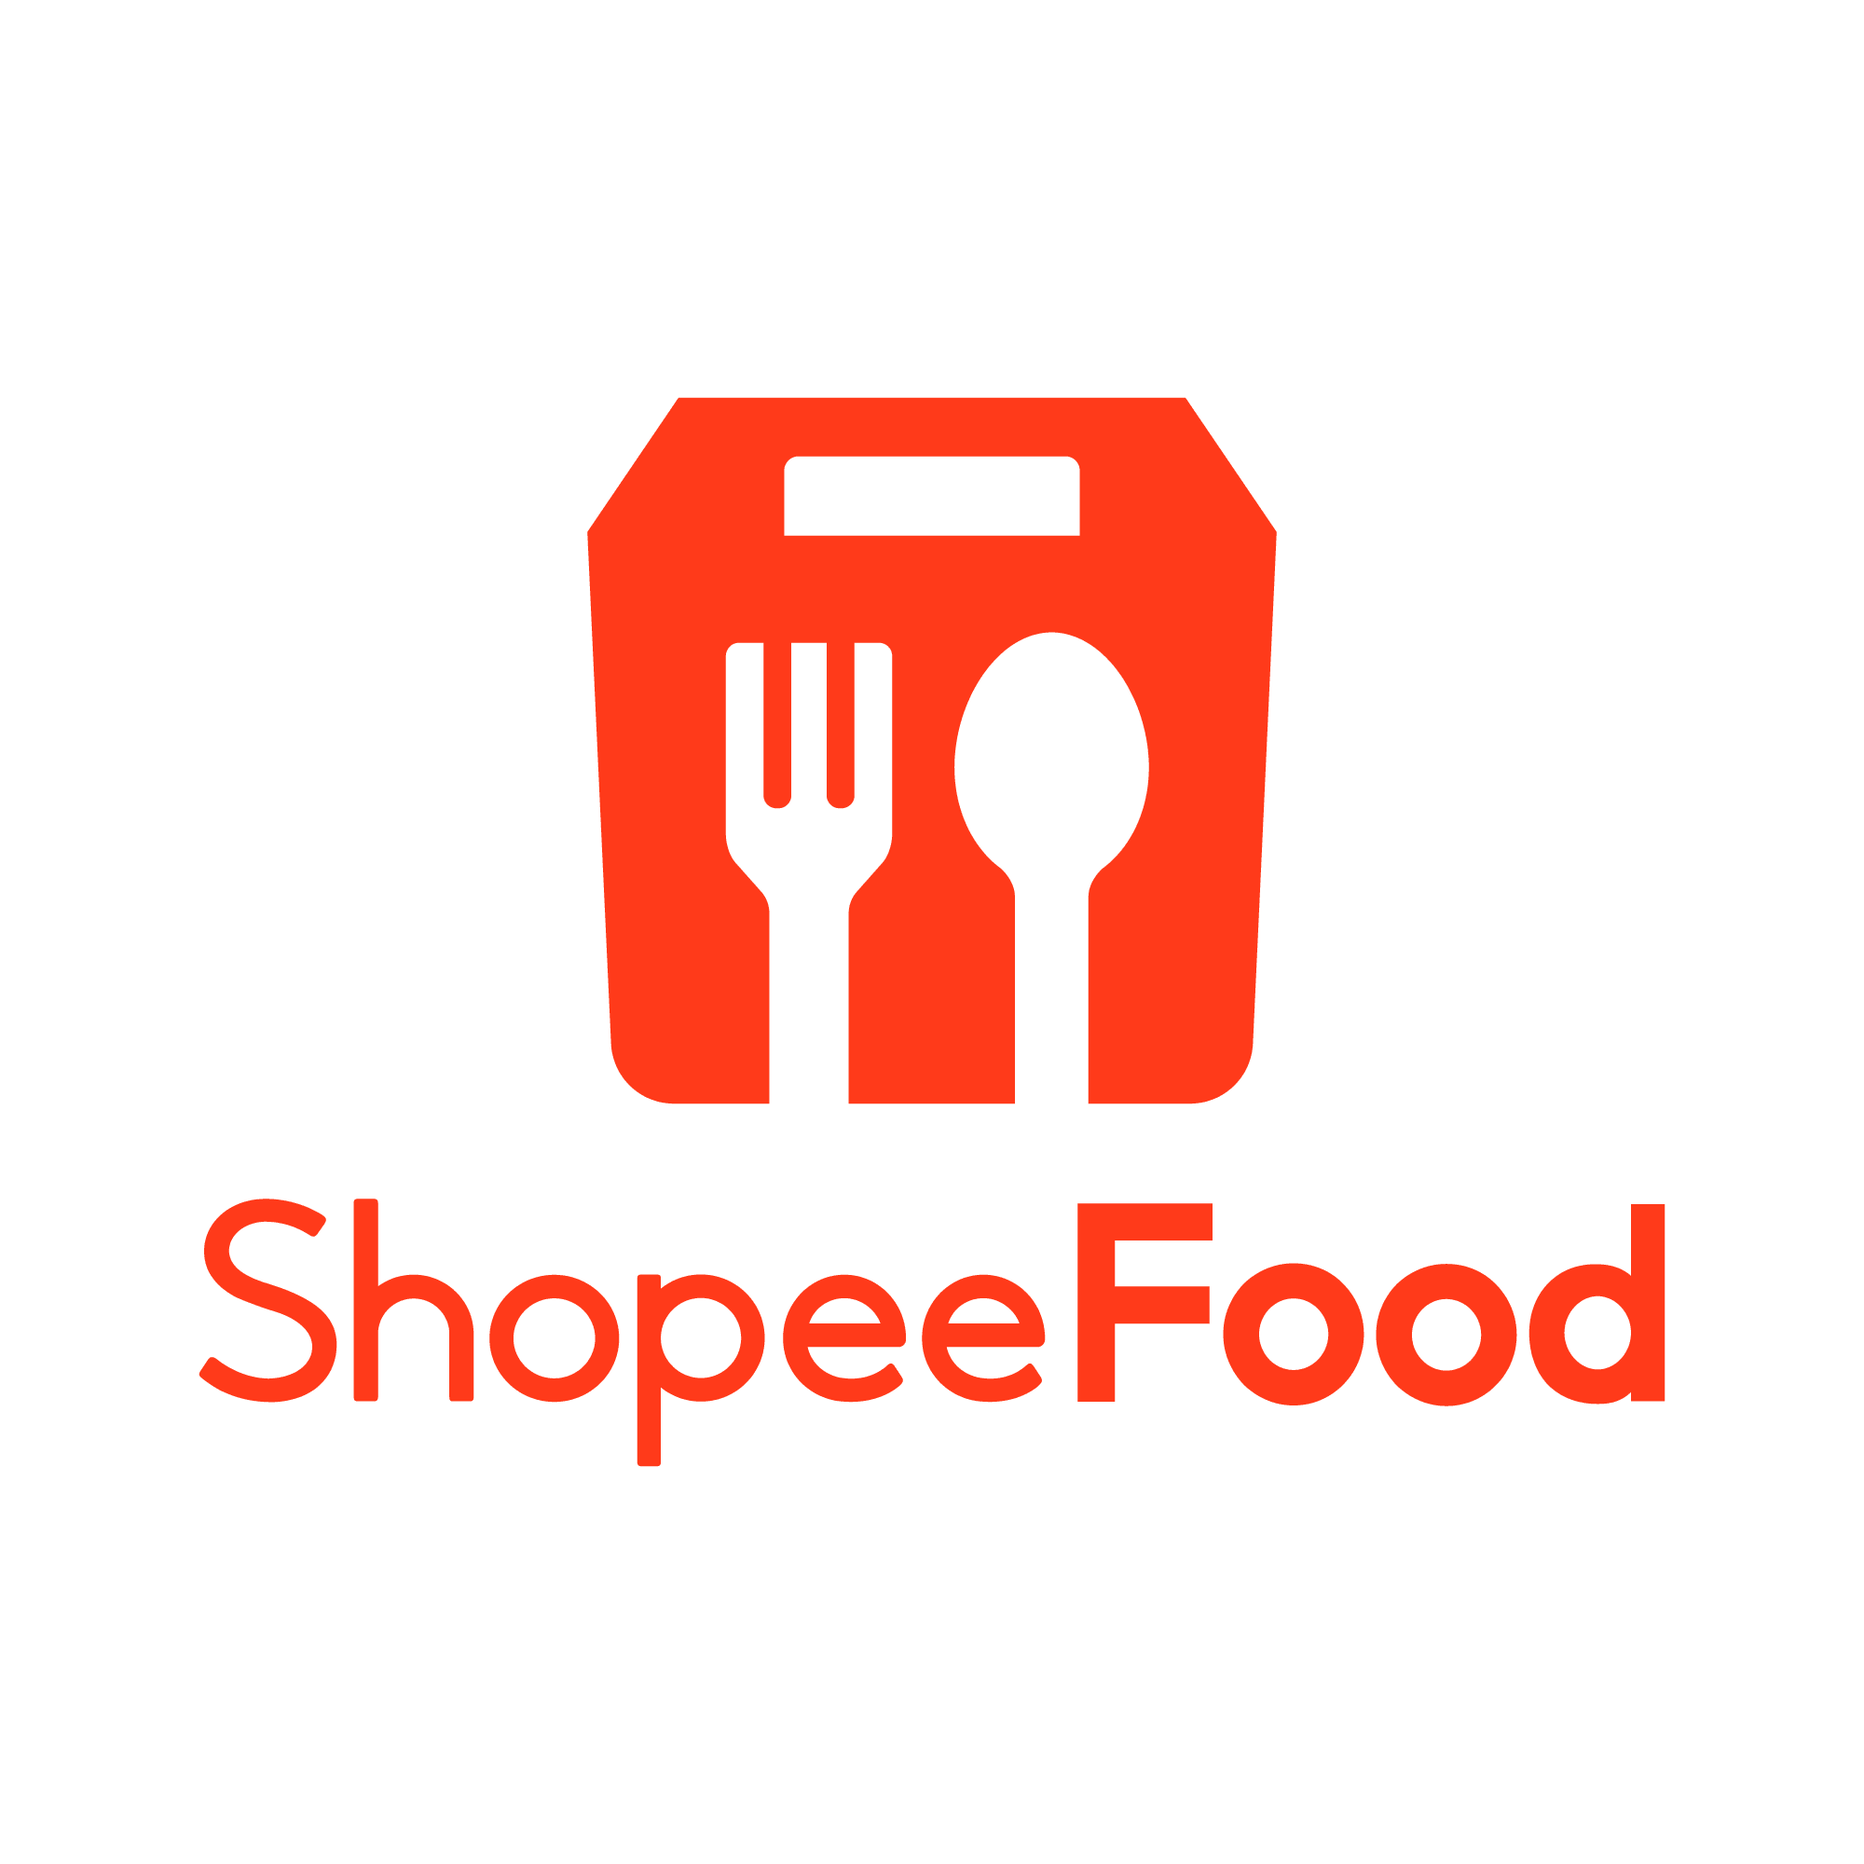
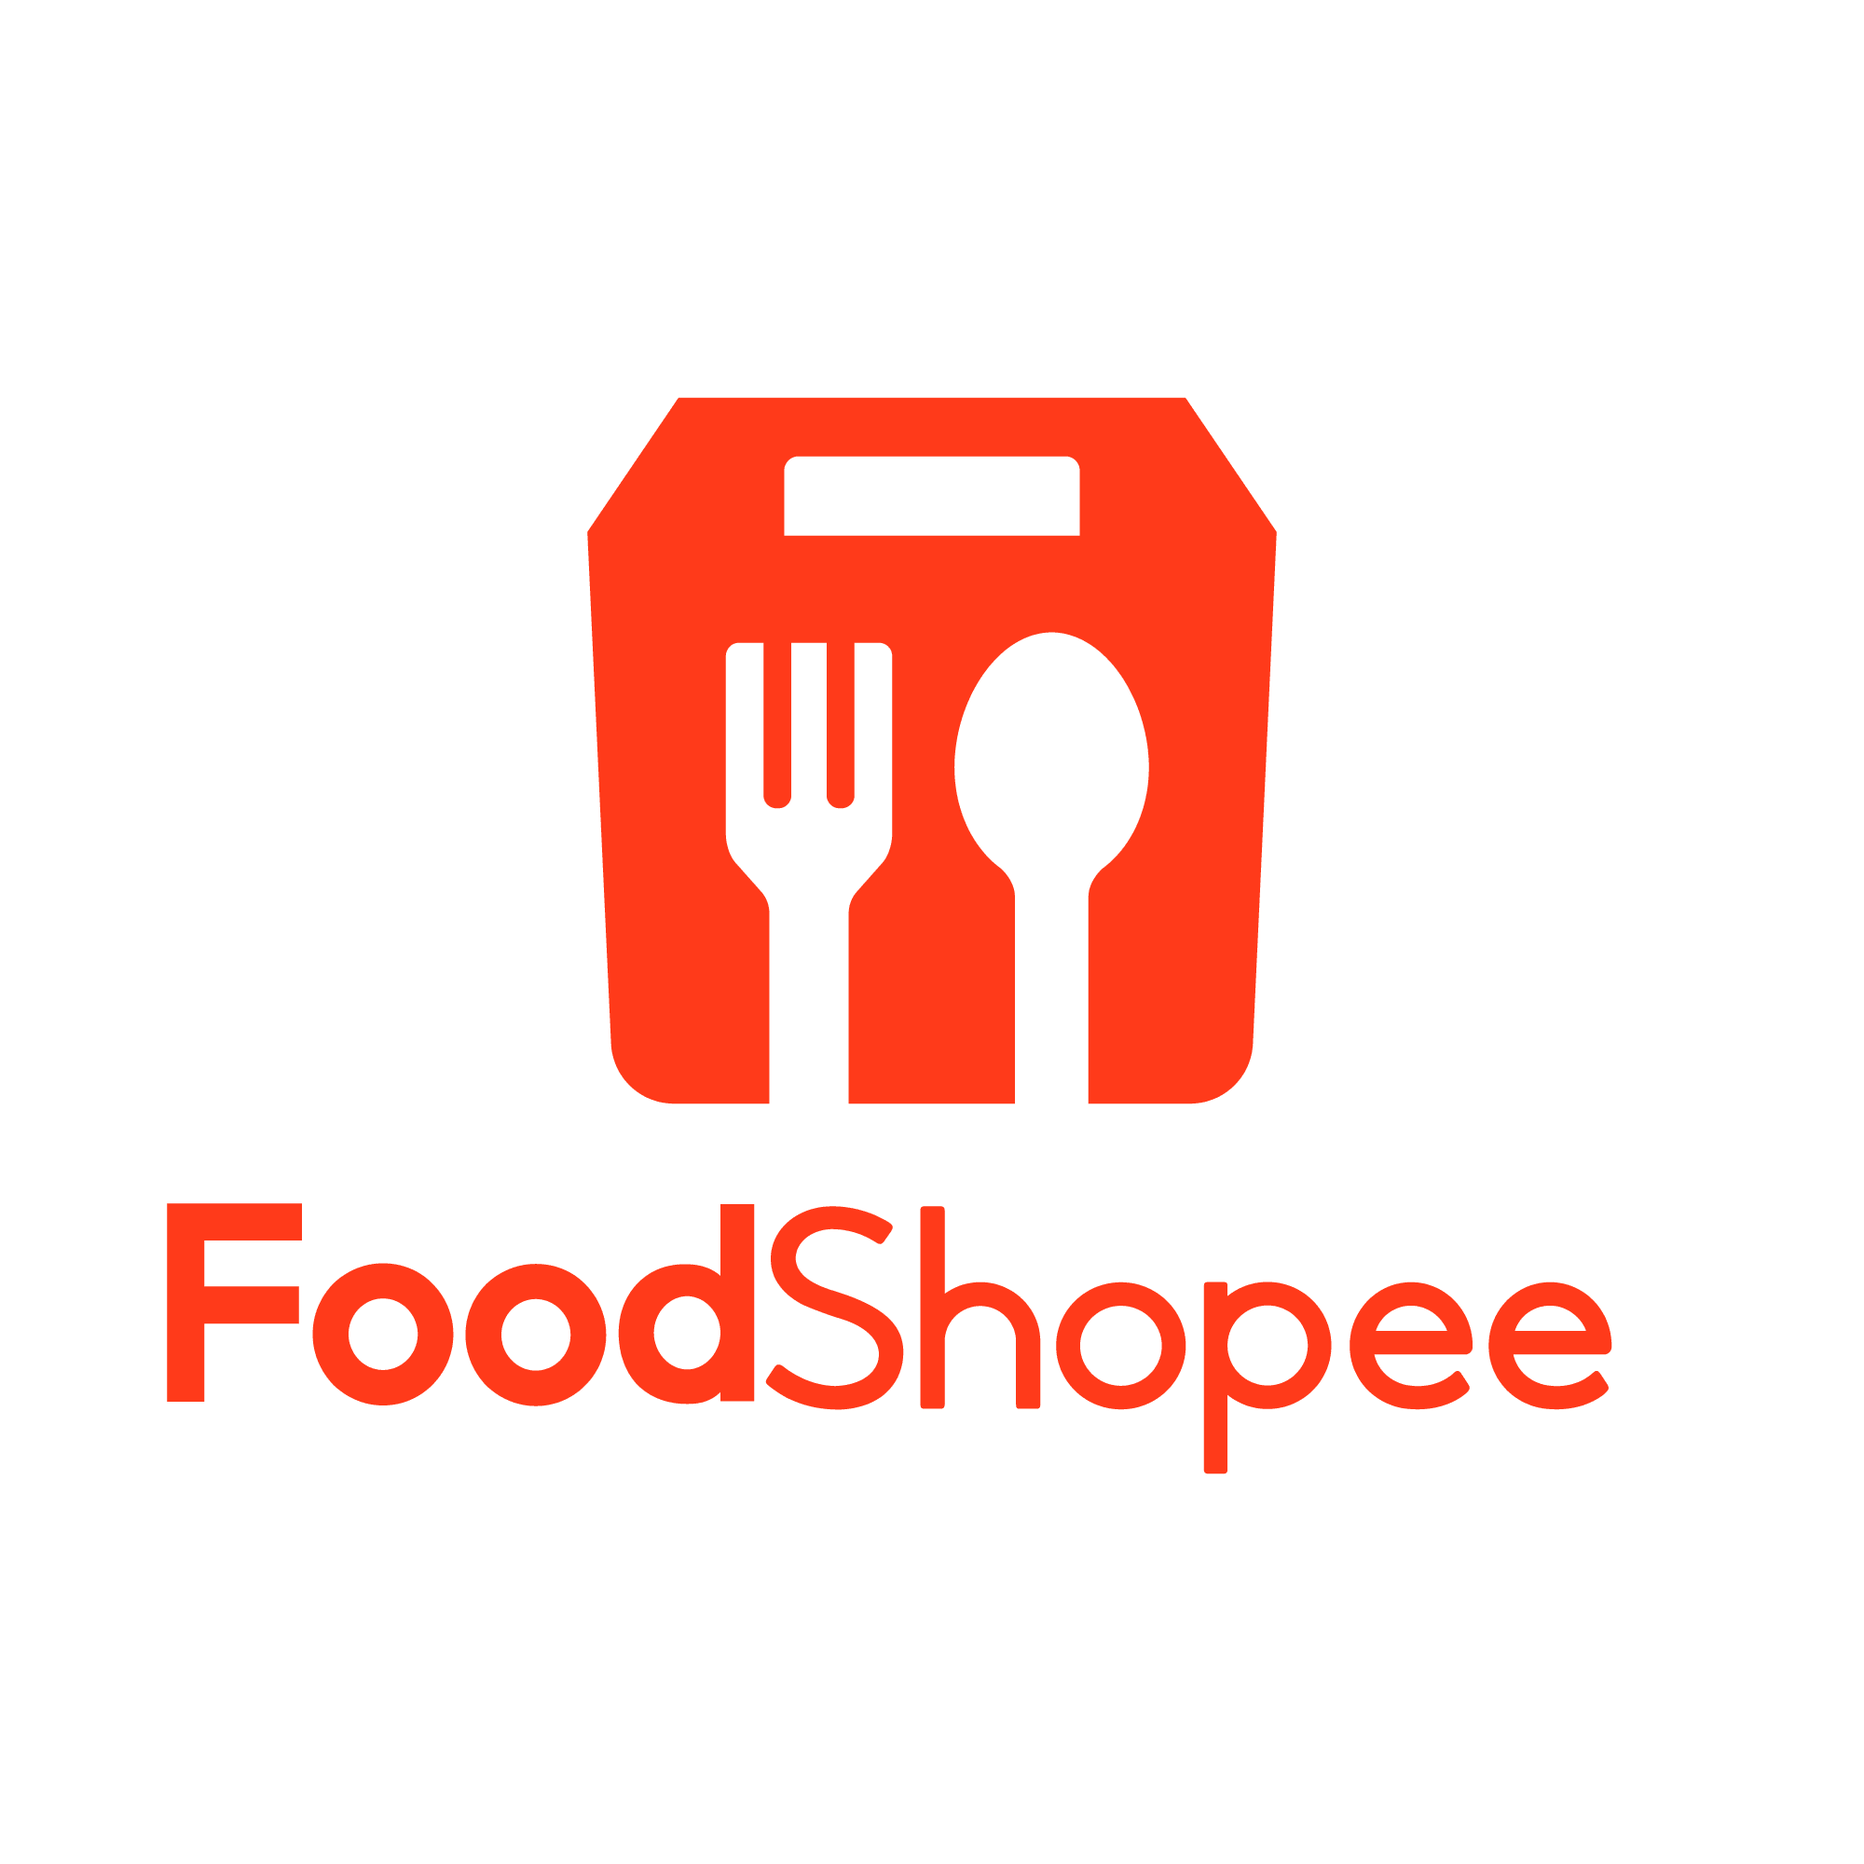
mudança no layout principal

Changed region(s): [[0.062, 0.62, 0.899, 0.806]]

diff --git a/templates/base.html b/templates/base.html
@@ -18,8 +18,9 @@
 			{% block 'head' %}
 			{% endblock %}
     </head>
-   
-    <nav class="navbar navbar-expand-md navbar-light fixed-top bg-white"> <a class="navbar-brand" href="{% url 'Core:index' %}"><img src="{% static 'img/logo.png' %}" style="height: 80px;"></a>
+    {% if imagens %}
+    {% for img in imagens %}
+    <nav class="navbar navbar-expand-md navbar-light fixed-top bg-white"> <a class="navbar-brand" href="{% url 'Core:index' %}"><img src="/media/{{ img.logo }}" style="height: 80px;"></a>
         <button
         class="navbar-toggler" type="button" data-toggle="collapse" data-target="#navbarsExampleDefault"
         aria-controls="navbarsExampleDefault" aria-expanded="false" aria-label="Toggle navigation"> <span class="navbar-toggler-icon"></span>
@@ -33,21 +34,49 @@
                 </ul> 
             </div>
     </nav>
+    
     <body>
         <div class="block hero1 my-auto"
-		style="background-image:url(https://images.unsplash.com/photo-1514933651103-005eec06c04b?ixlib=rb-1.2.1&ixid=eyJhcHBfaWQiOjEyMDd9&auto=format&fit=crop&w=1934&q=80);">
-		<div class="container-fluid text-center">
-			<h1 class="display-2 text-white" data-aos="fade-up" data-aos-duration="1000" data-aos-offset="0">Bistrot
-				Français</h1>
-			<p class="lead text-white" data-aos="fade-up" data-aos-duration="1000" data-aos-delay="600">We are closed
-				for the moment, but we will still deliver food at your place!</p>
-			<a href="{% url 'Core:index' %}" class="btn-text lead d-inline-block text-white border-top border-bottom mt-4 pt-1 pb-1"
-				data-aos="fade-up" data-aos-duration="1000" data-aos-delay="1200">View Today's Menu</a>
-		</div>
-		<div class="clearfix">
-           
+style="background-image:url(/media/{{ img.backgroud }});">
+<div class="container-fluid text-center">
+	<h1 class="display-2 text-white" data-aos="fade-up" data-aos-duration="1000" data-aos-offset="0">{{img.nome_Loja}}</h1>
+	<p class="lead text-white" data-aos="fade-up" data-aos-duration="1000" data-aos-delay="600">{{img.texto}}</p>
+	<a href="{% url 'Core:index' %}" class="btn-text lead d-inline-block text-white border-top border-bottom mt-4 pt-1 pb-1"
+		data-aos="fade-up" data-aos-duration="1000" data-aos-delay="1200">Ver o Menu de Hoje</a>
+</div>
+</div>
+{% endfor%}
+
+{% else %}
+<nav class="navbar navbar-expand-md navbar-light fixed-top bg-white"> <a class="navbar-brand" href="{% url 'Core:index' %}"><img src="{% static 'img/logo.png' %}" style="height: 80px;"></a>
+    <button
+    class="navbar-toggler" type="button" data-toggle="collapse" data-target="#navbarsExampleDefault"
+    aria-controls="navbarsExampleDefault" aria-expanded="false" aria-label="Toggle navigation"> <span class="navbar-toggler-icon"></span>
+        </button>
+        <div class="collapse navbar-collapse" id="navbarsExampleDefault">
+            <ul class="navbar-nav mr-auto">
+                <li class="nav-item active"> <a class="nav-link" href="{% url 'Core:index' %}">Bem Vindo<span class="sr-only">(current)</span></a>
+                </li>
+                <li class="nav-item"> <a class="nav-link" href="/admin/">Area Adiministrativa</a>
+                </li>
+            </ul> 
         </div>
-	</div>
+</nav>
+<div class="block hero1 my-auto"
+style="background-image:url(https://images.unsplash.com/photo-1514933651103-005eec06c04b?ixlib=rb-1.2.1&ixid=eyJhcHBfaWQiOjEyMDd9&auto=format&fit=crop&w=1934&q=80););">
+<div class="container-fluid text-center">
+	<h1 class="display-2 text-white" data-aos="fade-up" data-aos-duration="1000" data-aos-offset="0">FoodSophee</h1>
+	<p class="lead text-white" data-aos="fade-up" data-aos-duration="1000" data-aos-delay="600">We are closed
+		for the moment, but we will still deliver food at your place!</p>
+	<a href="{% url 'Core:index' %}" class="btn-text lead d-inline-block text-white border-top border-bottom mt-4 pt-1 pb-1"
+		data-aos="fade-up" data-aos-duration="1000" data-aos-delay="1200">Ver o Menu de Hoje</a>
+</div>
+</div>
+{% endif %}
+<div class="clearfix">
+   
+</div>
+
     <div class="text-center" role="alert">
         {% if avisos %}
         {% for aviso in avisos%}
@@ -66,9 +95,9 @@
 		<path d="M0 1.5A.5.5 0 0 1 .5 1H2a.5.5 0 0 1 .485.379L2.89 3H14.5a.5.5 0 0 1 .49.598l-1 5a.5.5 0 0 1-.465.401l-9.397.472L4.415 11H13a.5.5 0 0 1 0 1H4a.5.5 0 0 1-.491-.408L2.01 3.607 1.61 2H.5a.5.5 0 0 1-.5-.5zM3.102 4l.84 4.479 9.144-.459L13.89 4H3.102zM5 12a2 2 0 1 0 0 4 2 2 0 0 0 0-4zm7 0a2 2 0 1 0 0 4 2 2 0 0 0 0-4zm-7 1a1 1 0 1 1 0 2 1 1 0 0 1 0-2zm7 0a1 1 0 1 1 0 2 1 1 0 0 1 0-2z"/>
 	  </svg></a>
 	<footer class="block footer1 footer text-center">
-		<p>&copy; <a href="https://bootstrapstarter.com/bootstrap-templates/template-fooddelivery-bootstrap-html/">"Food
-				Delivery HTML Template"</a> by
+		<p>&copy; Copyright 2023 <sapn class="name_footer">"FoodShopee" </sapn>Todos os direitos reservados by
 			Vitor</p>
+            <a target="_blank" href="https://transparencyreport.google.com/safe-browsing/search?url=foodshopee.com.br"><img src="{% static 'img/google-safe-browsing-1.png' %}" alt=""></a>
 	</footer>
 	<script src="{% static 'js/bootstrap.min.js' %}"></script>
 	<script src="https://unpkg.com/aos@2.3.1/dist/aos.js"></script>

diff --git a/Core/templates/finalizar_pedido.html b/Core/templates/finalizar_pedido.html
@@ -96,7 +96,6 @@
           <br>
           <h3 class="rosa">Cep<span class="importante">*</span>:</h3>
           <input type="text" class="form-control" required="required" data-mask='00000-000' id="cep" placeholder="CEP" name="cep">
-
           <br>
           <!-- <h3 class="rosa">Cidade*:</h3>
           <select class="form-control">
@@ -105,7 +104,6 @@
               <option >Ribeirao das Neves</option>
           </select>
         -->
-     
           <h3 class="rosa">Rua<span class="importante">*</span>:</h3>
           <input type="text" required="required" class="form-control" placeholder="Rua" id="rua" name="rua">
 
@@ -116,9 +114,8 @@
           <br>
           <h3 class="rosa">Bairro<span class="importante">*</span>:</h3>
           <select class="form-control" required="required" class="form-control" placeholder="Bairro" id="inputbairro" name="bairro" onchange="freteBairro()">
-            <option selected>Escolha Sua Bairro...</option>
             {% for bairro in bairros %}
-              <option value="{{bairro.id}}" >{{bairro}}</option>
+              <option value="{{bairro.id}}" selected>{{bairro}}</option>
               {% endfor%}
           </select>
           

diff --git a/templates/admin/base_site.html b/templates/admin/base_site.html
@@ -3,7 +3,7 @@
 
 {% block branding %}
 <div class="admin-logo">
-    <img src="{% static 'img/logo.png' %}" alt="logo" height="100px" width="100%"> <h1>ShopeeFood</h1>
+    <img src="{% static 'img/logo.png' %}" alt="logo" height="100px" width="100%"> <h1>FoodShopee</h1>
 </div>
 {%endblock%}
 

diff --git a/templates/static/css/style.css b/templates/static/css/style.css
@@ -7165,7 +7165,12 @@ a.text-beige:hover, a.text-beige:focus {
   padding: 10px 10px;
   cursor: pointer; }
 
+  .name_footer {
+    color: var(--primary);
+  }
+
 .footer1 {
+  font-size: 18px;
   padding: 30px 0;
   margin-left: 30px;
   margin-right: 30px; }

diff --git a/Core/templates/index.html b/Core/templates/index.html
@@ -3,7 +3,7 @@
 {% load static %}
 
 <title>{% block 'title' %}
-	Pagina Inicial
+	FoodShopee
 	{% endblock %}</title>
 
 {% block 'body' %}

diff --git a/Core/views.py b/Core/views.py
@@ -1,7 +1,7 @@
 import json
 from django.http import HttpResponse
 from django.shortcuts import get_object_or_404, redirect, render
-from .models import Adicional, CupomDesconto, ItemPedido, Logo, Opcao, Pedido, Produto,Categoria , Bairro, Aviso,Logo
+from .models import Adicionai, CupomDesconto, ItemPedido, ImagensTexto, Opcao, Pedido, Produto,Categoria , Bairro, Aviso
 from django.contrib import messages
 from django.contrib.messages import constants
 
@@ -10,9 +10,11 @@ def index(request):
         request.session['carrinho'] = []
         request.session.save()
     Categorias = Categoria.objects.all()
+    imagens = ImagensTexto.objects.all()[:1]
     Produtos = Produto.objects.all().filter(ativo=True)
     avisos =Aviso.objects.all().filter(ativo=True).filter(para = '1')
     return render(request,'index.html',{
+                                         'imagens':imagens,
                                          'Categorias':Categorias,
                                          'Produtos':Produtos,
                                          'carrinho': len(request.session['carrinho']),
@@ -31,14 +33,15 @@ def categoria(request,id):
                                          'Categorias':Categorias,
                                          })
 
-
 def produto(request, id):
     if not request.session.get('carrinho'):
         request.session['carrinho'] = []
         request.session.save()
+        
     produto = Produto.objects.filter(id=id)[0]
-
+    imagens = ImagensTexto.objects.all()[:1]
     return render(request, 'produto.html', {'produto': produto,
+                                            'imagens':imagens,
                                             'carrinho': len(request.session['carrinho']),
                                            })
 
@@ -63,7 +66,7 @@ def add_carrinho(request):
 
     id = int(x['id'][0])
     preco_total = Produto.objects.filter(id=id)[0].preco
-    adicionais_verifica = Adicional.objects.filter(produto=id)
+    adicionais_verifica = Adicionai.objects.filter(produto=id)
     aprovado = True
 
     for i in adicionais_verifica:
@@ -112,6 +115,7 @@ def add_carrinho(request):
 
 def ver_carrinho(request):
     categorias = Categoria.objects.all()
+    imagens = ImagensTexto.objects.all()[:1]
     dados_motrar = []
     for i in request.session['carrinho']:
         prod = Produto.objects.filter(id=i['id_produto'])
@@ -129,7 +133,8 @@ def ver_carrinho(request):
     return render(request, 'carrinho.html', {'dados': dados_motrar,
                                              'total': total,
                                              'carrinho': len(request.session['carrinho']),
-                                             'categorias': categorias
+                                             'categorias': categorias,
+                                             'imagens':imagens,
                                              })
 
 def remover_carrinho(request, id):
@@ -141,8 +146,10 @@ def finalizar_pedido(request):
     if request.method == "GET":
         categorias = Categoria.objects.all()
         bairros = Bairro.objects.all()
+        imagens = ImagensTexto.objects.all()[:1]
         total = sum([float(i['preco']) for i in request.session['carrinho']])
         return render(request, 'finalizar_pedido.html', {'carrinho': len(request.session['carrinho']),
+                                                         'imagens':imagens,
                                                          'bairros': bairros,
                                                          'categorias': categorias,
                                                          'total': total,

diff --git a/Core/models.py b/Core/models.py
@@ -2,9 +2,14 @@ from django.db import models
 from datetime import datetime
 from django.utils.safestring import mark_safe
 
-class Logo(models.Model):
-    logo = models.ImageField(upload_to='logos_img',blank=True, null=True)
-    backgroud = models.ImageField(upload_to='logos_img',blank=True, null=True)
+class ImagensTexto(models.Model):
+    logo = models.ImageField(upload_to='logos_img')
+    backgroud = models.ImageField(upload_to='logos_img')
+    nome_Loja = models.CharField(max_length=100 )
+    texto = models.CharField(max_length=200)
+
+    def __str__(self):
+        return self.nome_Loja
 
 class Categoria(models.Model):
     categoria = models.CharField(max_length=200)
@@ -19,7 +24,7 @@ class Opcao(models.Model):
     def __str__(self):
         return self.nome
 
-class Adicional(models.Model):
+class Adicionai(models.Model):
     nome = models.CharField(max_length=100, unique=True)
     maximo = models.IntegerField()
     minimo = models.IntegerField()
@@ -35,7 +40,7 @@ class Produto(models.Model):
     preco = models.FloatField()
     descricao = models.TextField()
     ingredientes = models.CharField(max_length=2000)
-    adicionais = models.ManyToManyField(Adicional, blank=True)
+    adicionais = models.ManyToManyField(Adicionai, blank=True)
     ativo = models.BooleanField(default=True)
 
     @mark_safe
@@ -107,3 +112,4 @@ class Aviso(models.Model):
 
     def __str__(self) -> str:
         return self.mensagem
+

diff --git a/Core/admin.py b/Core/admin.py
@@ -1,5 +1,5 @@
 from django.contrib import admin
-from .models import Aviso, Categoria, CupomDesconto, ItemPedido, Logo, Pedido, Produto, Adicional, Opcao,Bairro
+from .models import Aviso, Categoria, CupomDesconto, ItemPedido, ImagensTexto, Pedido, Produto, Adicionai, Opcao,Bairro
 
 
 
@@ -36,11 +36,11 @@ class PedidoAdmin(admin.ModelAdmin):
 admin.site.register(Pedido, PedidoAdmin)
 
 admin.site.register(Categoria)
-admin.site.register(Adicional)
+admin.site.register(Adicionai)
 admin.site.register(Opcao)
 admin.site.register(Bairro)
 admin.site.register(Aviso)
-admin.site.register(Logo)
+admin.site.register(ImagensTexto)
 
 
 

diff --git a/Core/apps.py b/Core/apps.py
@@ -4,6 +4,7 @@ from django.apps import AppConfig
 class CoreConfig(AppConfig):
     default_auto_field = 'django.db.models.BigAutoField'
     name = 'Core'
+    verbose_name ='Administraçao da Loja'
 
     def ready(self):
         from django.db.models.signals import pre_save
